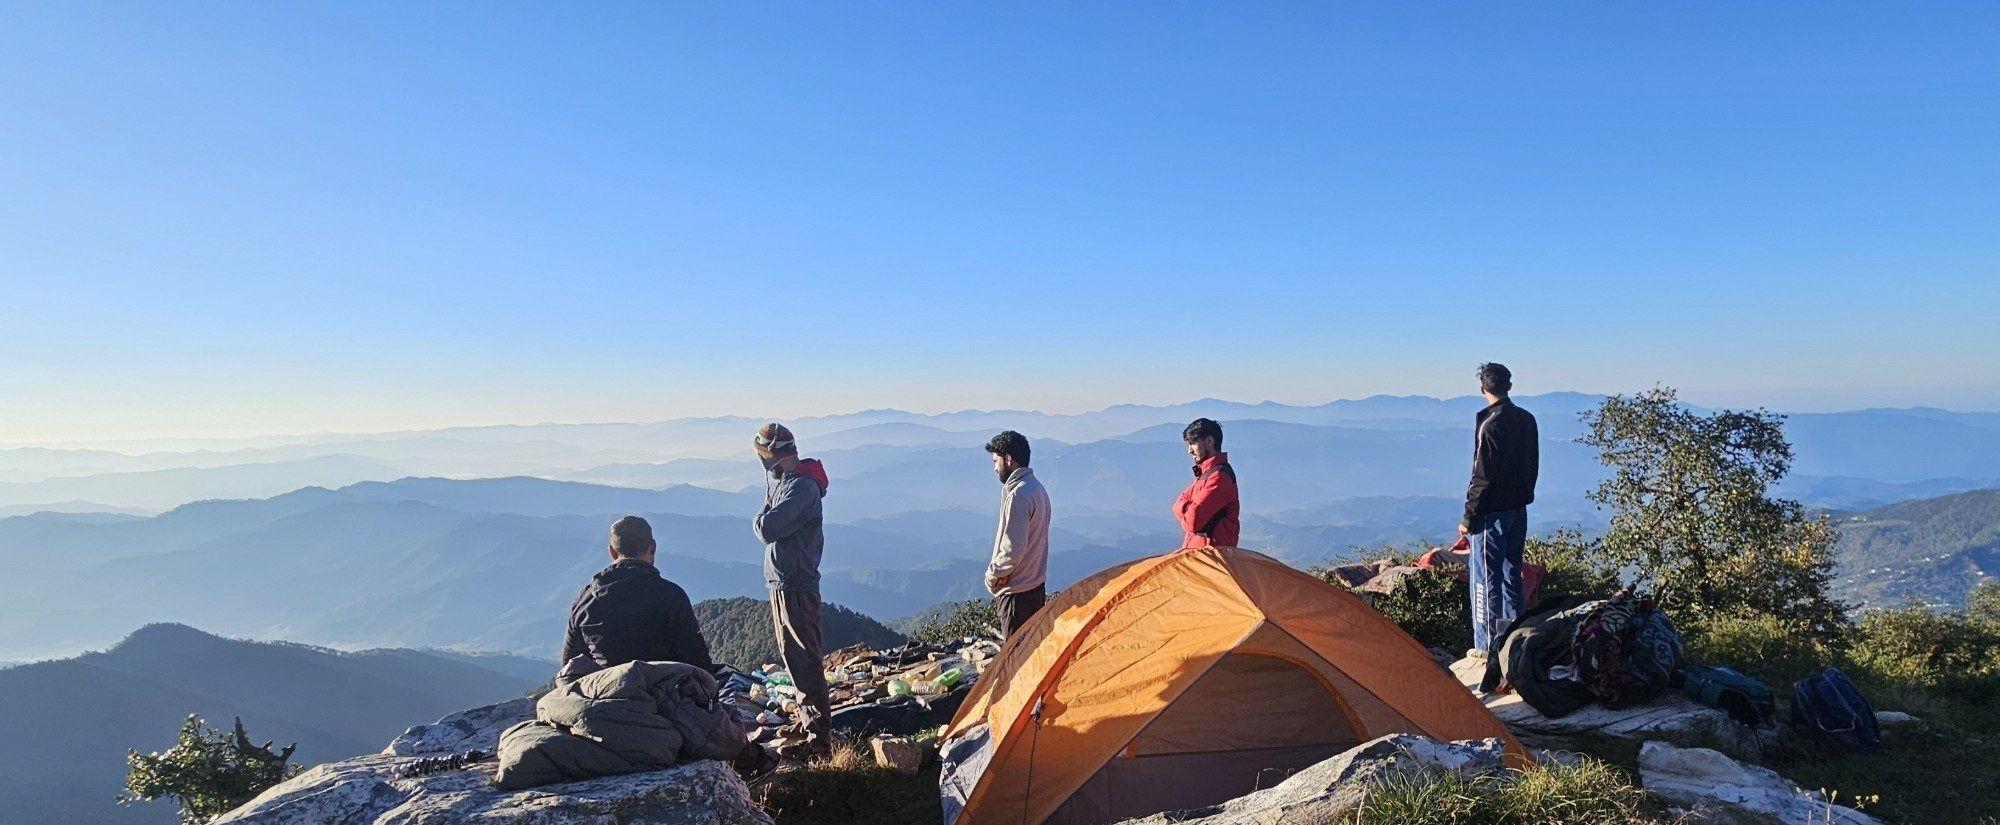
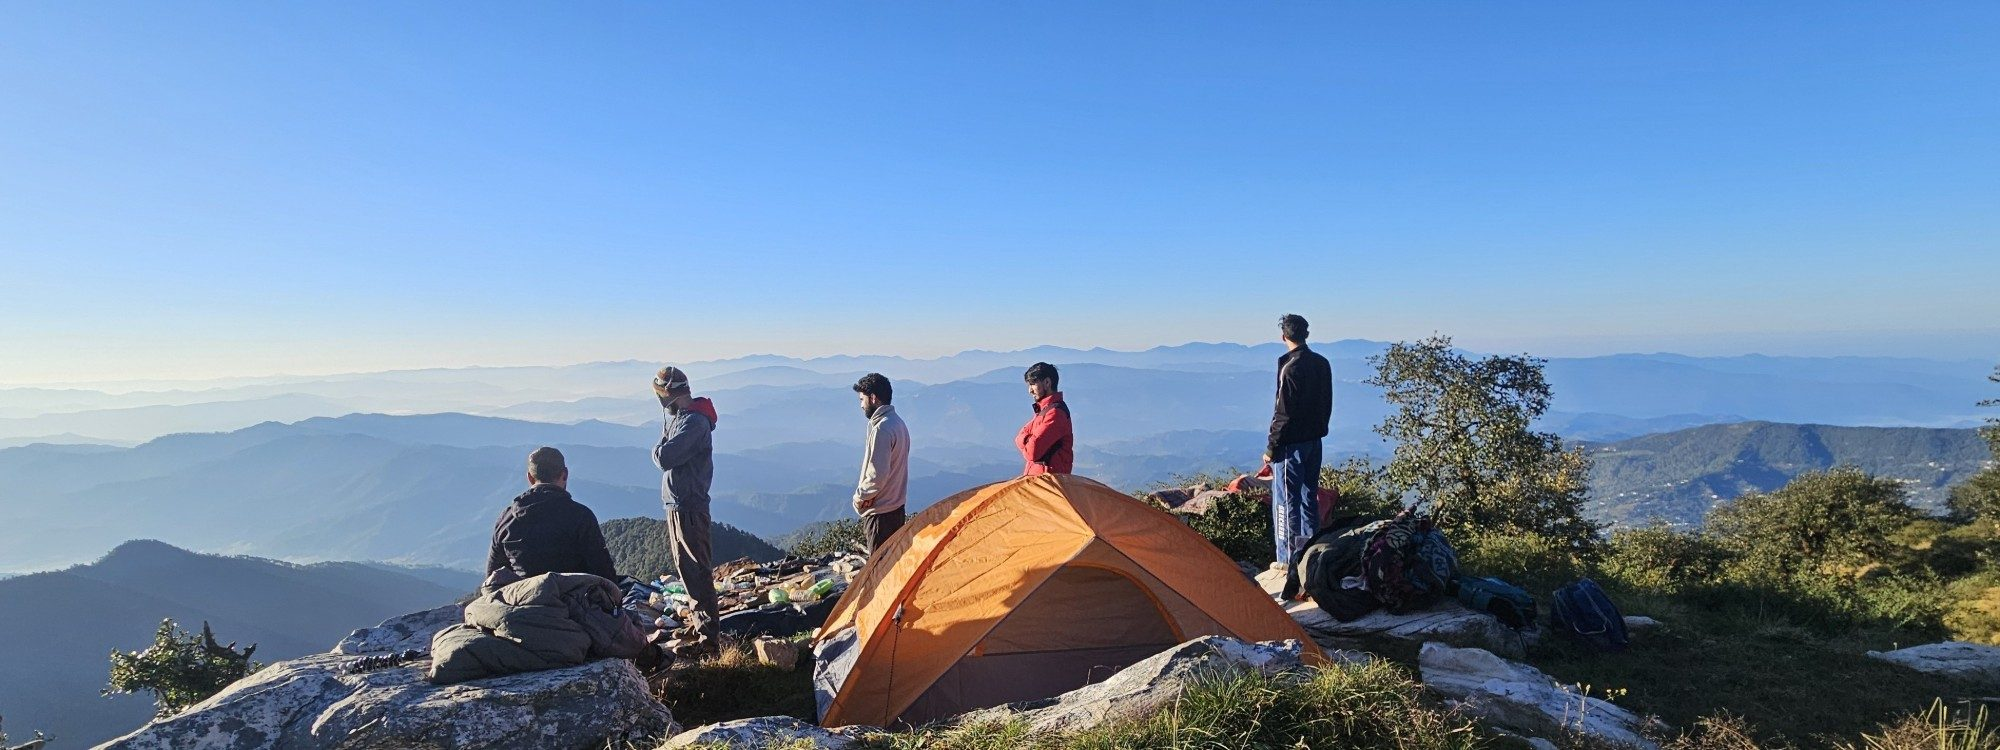
Revert "Show the treks photo whole below the headline so all five people are visible"
This reverts commit 6c1e7e2c84b79272fc8bf8ecb34d822b83687ba6.

diff --git a/treks.html b/treks.html
@@ -48,16 +48,15 @@
 </div>
 <main id="main">
 
-<section class="page-hero page-hero--below">
+<section class="page-hero">
+  <div class="hero-media"><div class="media "><picture><source type="image/webp" srcset="/assets/img/photos/out/treks-hero-900.webp 900w, /assets/img/photos/out/treks-hero-1800.webp 1800w" sizes="(max-aspect-ratio: 1/1) 220vh, 100vw"><img src="/assets/img/photos/treks-hero.jpg" alt="" loading="eager" fetchpriority="high" decoding="async" width="1800" height="1200" style="--pos:20% 50%;--pos-m:52% 50%"></picture></div></div>
   <div class="wrap page-hero-inner">
     <nav class="breadcrumbs" aria-label="Breadcrumb"><ol><li><a href="/">Home</a></li><li aria-current="page">Treks</li></ol></nav>
-    <div class="phb-grid">
-      <div><span class="eyebrow">Treks</span><h1>Walk to notice, not to <em>conquer</em></h1></div>
-      <p class="lede">Five trails, graded honestly. These are the treks we know and lead ourselves, from a gentle forest climb to a glacier at the head of a valley.</p>
-    </div>
+    <span class="eyebrow">Treks</span>
+    <h1>Walk to notice, not to <em>conquer</em></h1>
+    <p class="lede">Five trails, graded honestly. These are the treks we know and lead ourselves, from a gentle forest climb to a glacier at the head of a valley.</p>
     
   </div>
-  <div class="media media--natural"><picture><source type="image/webp" srcset="/assets/img/photos/out/treks-hero-900.webp 900w, /assets/img/photos/out/treks-hero-1800.webp 1800w" sizes="100vw"><img src="/assets/img/photos/treks-hero.jpg" alt="Five trekkers around an orange tent at a summit camp, looking out over layered Kumaun hills at sunrise" loading="eager" fetchpriority="high" decoding="async" width="2000" height="825"></picture></div>
 </section>
 <section class="section" style="padding-top:clamp(3rem,6vw,5rem)">
   <div class="wrap">

diff --git a/assets/css/site.css b/assets/css/site.css
@@ -247,20 +247,6 @@ body.menu-open { overflow: hidden; }
 .page-hero .lede { color: rgba(245, 241, 232, .82); margin-top: 1.5rem; }
 .page-hero .eyebrow { color: var(--ochre-soft); }
 .page-hero--plain { background: var(--ivory); color: var(--ink); }
-.page-hero--below .page-hero-inner { padding-bottom: clamp(2.5rem, 5vw, 4rem); }
-@media (min-width: 900px) {
-  .page-hero--below .page-hero-inner { padding-top: calc(var(--nav-h) + 2.5rem); padding-bottom: 2.5rem; }
-  .page-hero--below .breadcrumbs { margin-bottom: 1.25rem; }
-  .phb-grid { display: grid; grid-template-columns: 1.1fr .9fr; gap: 4rem; align-items: end; }
-  .phb-grid .eyebrow { margin-bottom: 1rem; }
-  .phb-grid h1 { max-width: none; }
-  .phb-grid .lede { margin: 0; }
-  /* Fit the photo into what is left of the screen, trimming sky rather than people. */
-  .page-hero--below .media--natural { height: clamp(340px, calc(100vh - 390px), 720px); }
-  .page-hero--below .media--natural img { height: 100%; object-fit: cover; object-position: 50% 82%; }
-}
-.media--natural { background: none; }
-.media--natural img { height: auto; display: block; }
 .page-hero--plain .lede { color: var(--ink-soft); }
 .page-hero--plain .eyebrow { color: var(--moss); }
 .breadcrumbs { font-size: var(--fs-xs); letter-spacing: .14em; text-transform: uppercase; margin-bottom: 2rem; opacity: .75; }

diff --git a/src/pages.py b/src/pages.py
@@ -75,25 +75,11 @@ def cta(title="Let’s plan a quieter kind of journey.", text="Tell us what you 
 </section>"""
 
 
-def page_hero(eyebrow, title, lede, scene, slot, crumbs=None, facts=None, photo_below=False, alt=""):
-    """Page header. With photo_below, the text sits on a dark band and the photo is shown
-    whole underneath it, uncropped and undimmed (for group shots where everyone must show)."""
+def page_hero(eyebrow, title, lede, scene, slot, crumbs=None, facts=None):
     crumb_html = crumbs or ""
     facts_html = ""
     if facts:
         facts_html = '<dl class="facts">' + "".join(f"<div><dt>{E(k)}</dt><dd>{E(v)}</dd></div>" for k, v in facts) + "</dl>"
-    if photo_below and photo_sources(slot):
-        return f"""<section class="page-hero page-hero--below">
-  <div class="wrap page-hero-inner">
-    {crumb_html}
-    <div class="phb-grid">
-      <div><span class="eyebrow">{E(eyebrow)}</span><h1>{title}</h1></div>
-      <p class="lede">{E(lede)}</p>
-    </div>
-    {facts_html}
-  </div>
-  {media(slot, scene, alt, cls="media--natural", eager=True, sizes="100vw")}
-</section>"""
     return f"""<section class="page-hero">
   <div class="hero-media">{media(slot, scene, "", eager=True, sizes="(max-aspect-ratio: 1/1) 220vh, 100vw")}</div>
   <div class="wrap page-hero-inner">
@@ -735,7 +721,7 @@ def treks():
   </div>
 </article>""")
     body = f"""
-{page_hero("Treks", "Walk to notice, not to <em>conquer</em>", "Five trails, graded honestly. These are the treks we know and lead ourselves, from a gentle forest climb to a glacier at the head of a valley.", ("snow", 9), "treks-hero", crumbs, photo_below=True, alt="Five trekkers around an orange tent at a summit camp, looking out over layered Kumaun hills at sunrise")}
+{page_hero("Treks", "Walk to notice, not to <em>conquer</em>", "Five trails, graded honestly. These are the treks we know and lead ourselves, from a gentle forest climb to a glacier at the head of a valley.", ("snow", 9), "treks-hero", crumbs)}
 <section class="section" style="padding-top:clamp(3rem,6vw,5rem)">
   <div class="wrap">
     <div class="notice reveal"><p>Each trek lives inside a longer journey, and the shorter ones can also be walked on their own. Groups of 4 to 10, led by our BMC certified lead guide. Dates are released in small batches. Message us and we will tell you what is opening next.</p></div>

diff --git a/src/templates.py b/src/templates.py
@@ -45,6 +45,7 @@ FOCUS = {
     "trek-pandavkholi": "55% 60%",
     "trek-bharatkot": "60% 60%",
     "journeys-hero": "50% 62%",
+    "treks-hero": ("20% 50%", "52% 50%"),
     "experiences-hero": ("0% 65%", "46% 65%"),
     "about-hero": "50% 45%",
     "team-nishant": "50% 70%",
@@ -53,16 +54,6 @@ FOCUS = {
     "pandavkholi-1": "60% 60%",
     "bharatkot-1": "50% 55%",
 }
-
-
-def natural_size(web_path):
-    """Pixel size of a photo, so the browser reserves the right space before it loads."""
-    try:
-        from PIL import Image
-        with Image.open(os.path.join(ROOT, web_path.lstrip("/"))) as im:
-            return im.size
-    except Exception:
-        return 1800, 1200
 
 
 def media(slot, scene, alt, cls="", eager=False, sizes="(min-width: 900px) 50vw, 100vw"):
@@ -78,8 +69,7 @@ def media(slot, scene, alt, cls="", eager=False, sizes="(min-width: 900px) 50vw,
         else:
             pos = f' style="--pos:{focus}"' if focus else ""
         fetch = ' fetchpriority="high"' if eager else ""
-        w, h = natural_size(src["fallback"]) if "media--natural" in cls else (1800, 1200)
-        inner = f'<picture>{source}<img src="{src["fallback"]}" alt="{escape(alt)}" loading="{loading}"{fetch} decoding="async" width="{w}" height="{h}"{pos}></picture>'
+        inner = f'<picture>{source}<img src="{src["fallback"]}" alt="{escape(alt)}" loading="{loading}"{fetch} decoding="async" width="1800" height="1200"{pos}></picture>'
     else:
         kind, seed = scene
         inner = art.scene(kind, seed, alt)
